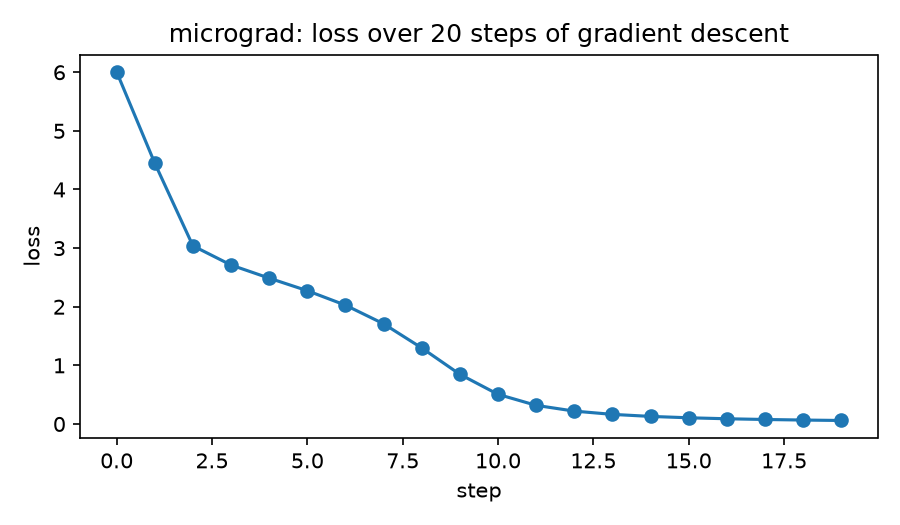
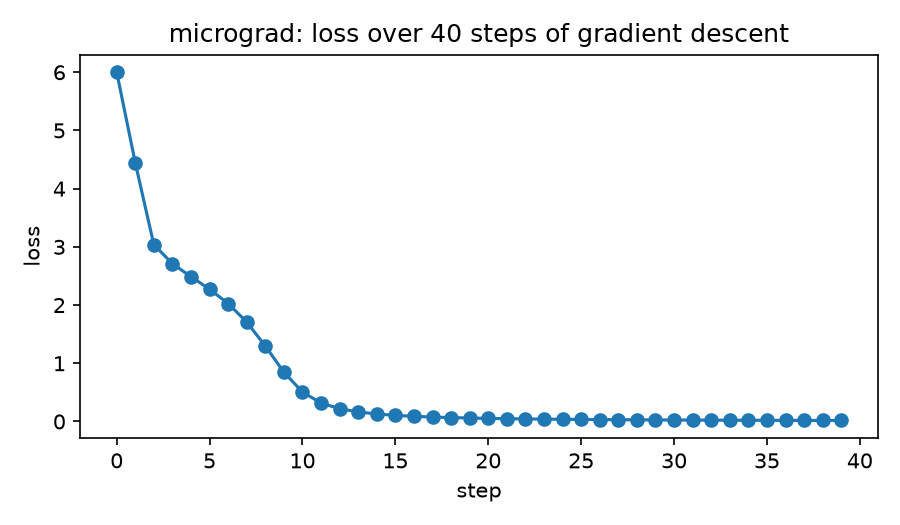
smallgpt: step 1 runs 40 rounds; the page says what the extra 20 showed
Claude-Session: https://claude.ai/code/session_015kmarL99P2TDJ9UdknZeWs

diff --git a/src/app/smallgpt/steps.ts b/src/app/smallgpt/steps.ts
@@ -35,7 +35,7 @@ export const STEPS: Step[] = [
     doneOn: '2026-10-12',
     summary:
       'We built a backpropagation machine from scratch. This is the machinery that calculates the gradients for gradient descent: for each step of training, it figures out in which direction and by how much to nudge each weight. PyTorch does this for us, but we built it from scratch for educational purposes. To test it we made a data set of 4 cards, each with 3 numbers and a hidden correct answer (+1 or −1), and a 41-parameter model to go with it — think of it as a Tiny Small Numbers Model. We ran the 4 cards through the model and ran backprop 20 times to nudge the weights, to see if our gradient descent machine works. It does. Yeay.',
-    saw: 'The loss fell from 6.0 to 0.06 in 20 rounds; the guesses came out +0.86, −0.98, −0.86, +0.86 for answers +1, −1, −1, +1. And a drawing of one neuron’s math with every number’s gradient on it.',
+    saw: 'The loss fell from 6.0 to 0.06 in 20 rounds; the guesses came out +0.86, −0.98, −0.86, +0.86 for answers +1, −1, −1, +1. Another 20 rounds took the loss to 0.017 and the guesses to ±0.92, each round gaining less than the one before — tanh never quite reaches ±1. And a drawing of one neuron’s math with every number’s gradient on it.',
   },
   { n: 2, name: 'Tokenizer', idea: 'How text becomes numbers (byte-pair encoding)', status: 'next' },
   { n: 3, name: 'The dataset and the objective', idea: 'Next-token prediction is the whole game', status: 'todo' },

diff --git a/apps/smallgpt/01-micrograd/train.py b/apps/smallgpt/01-micrograd/train.py
@@ -32,7 +32,7 @@ net = MLP(3, [4, 4, 1])
 print(f"{len(net.parameters())} weights, all random to start\n")
 
 losses = []
-for step in range(20):
+for step in range(40):
     # 1. forward: a guess for every example
     preds = [net(x) for x in xs]
     # 2. loss: how wrong the guesses are, one number (sum of squared errors)
@@ -56,7 +56,7 @@ plt.figure(figsize=(6, 3.5))
 plt.plot(losses, marker="o")
 plt.xlabel("step")
 plt.ylabel("loss")
-plt.title("micrograd: loss over 20 steps of gradient descent")
+plt.title("micrograd: loss over 40 steps of gradient descent")
 plt.tight_layout()
 plt.savefig(out, dpi=150)
 print(f"wrote {out}")
